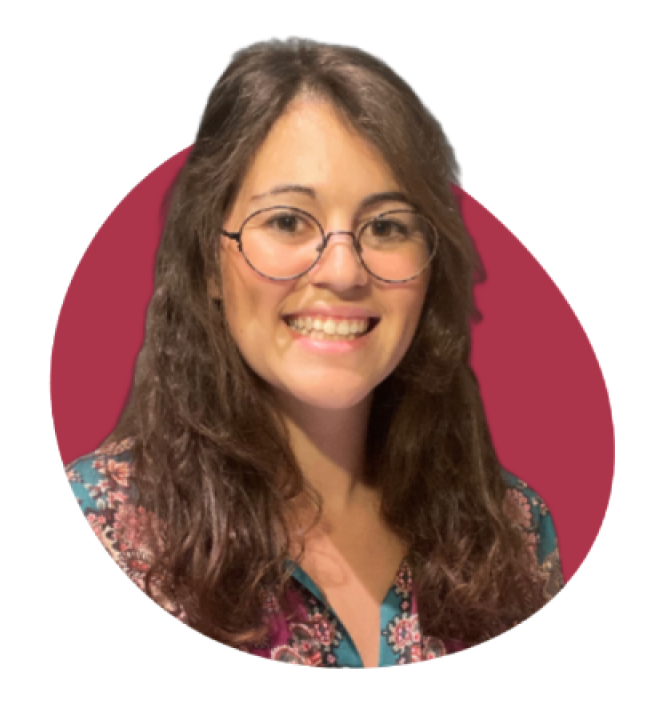
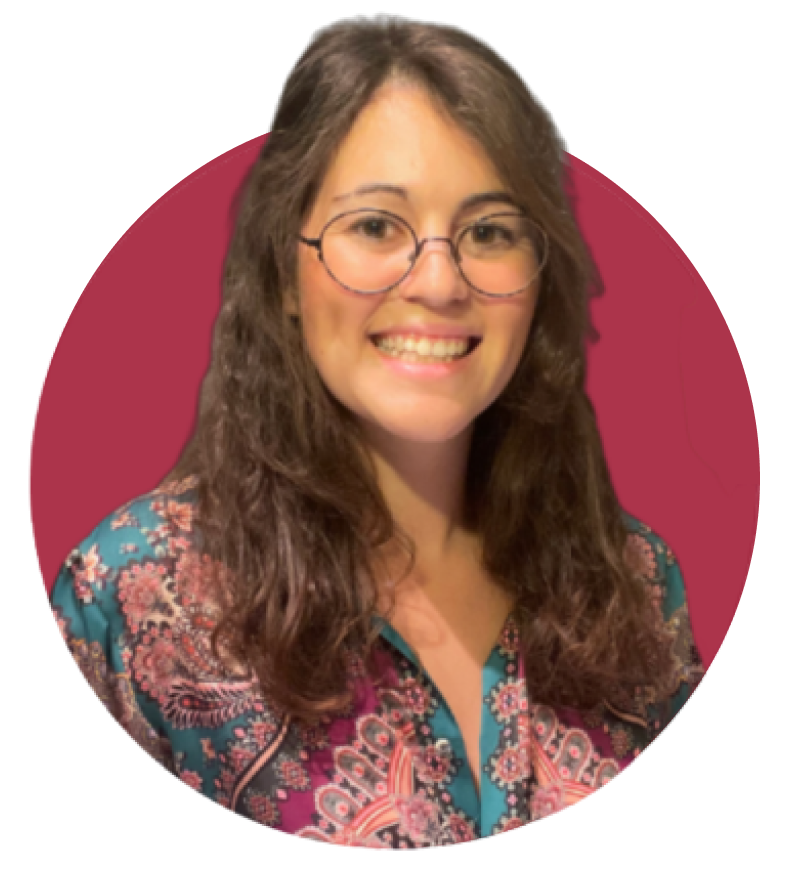
replace headshot

diff --git a/components/cards/InfoWithImage.vue b/components/cards/InfoWithImage.vue
@@ -1,6 +1,6 @@
 <template>
   <div class="laptop:flex gap-10 items-center mx-auto bg-light-pink shadow-sm p-10 rounded-lg" v-motion-slide-visible-once-bottom>
-    <img :src="image_link" :alt="image_alt" width="250" class="mb-10 laptop:m-0">
+    <img :src="image_link" :alt="image_alt" width="200" class="mb-10 laptop:m-0">
 
     <div>
       <h2 class="font-semibold text-[24px] mb-5">{{ title }}</h2>
